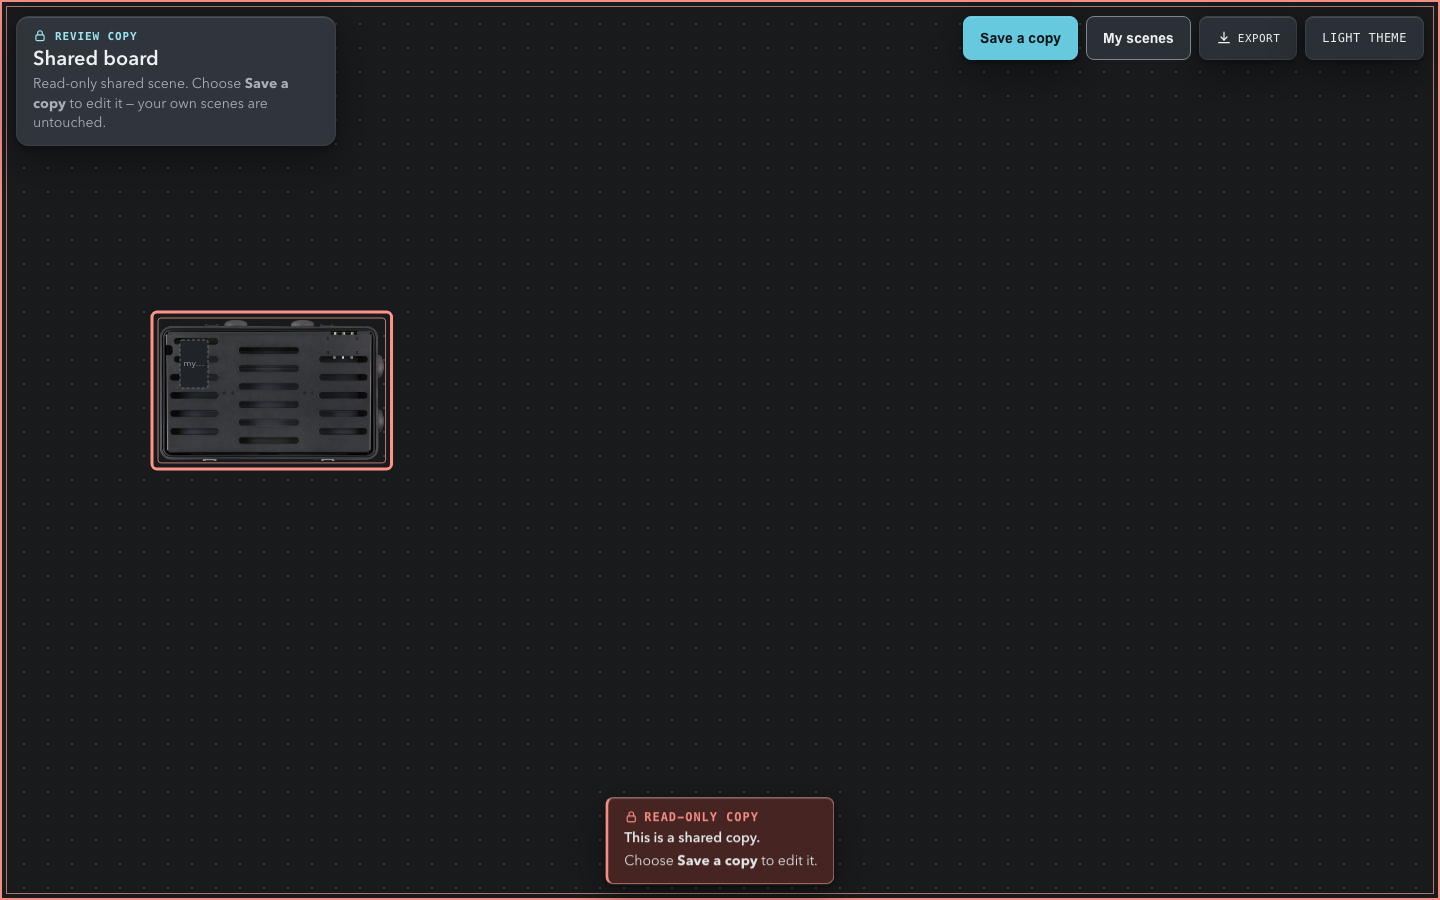
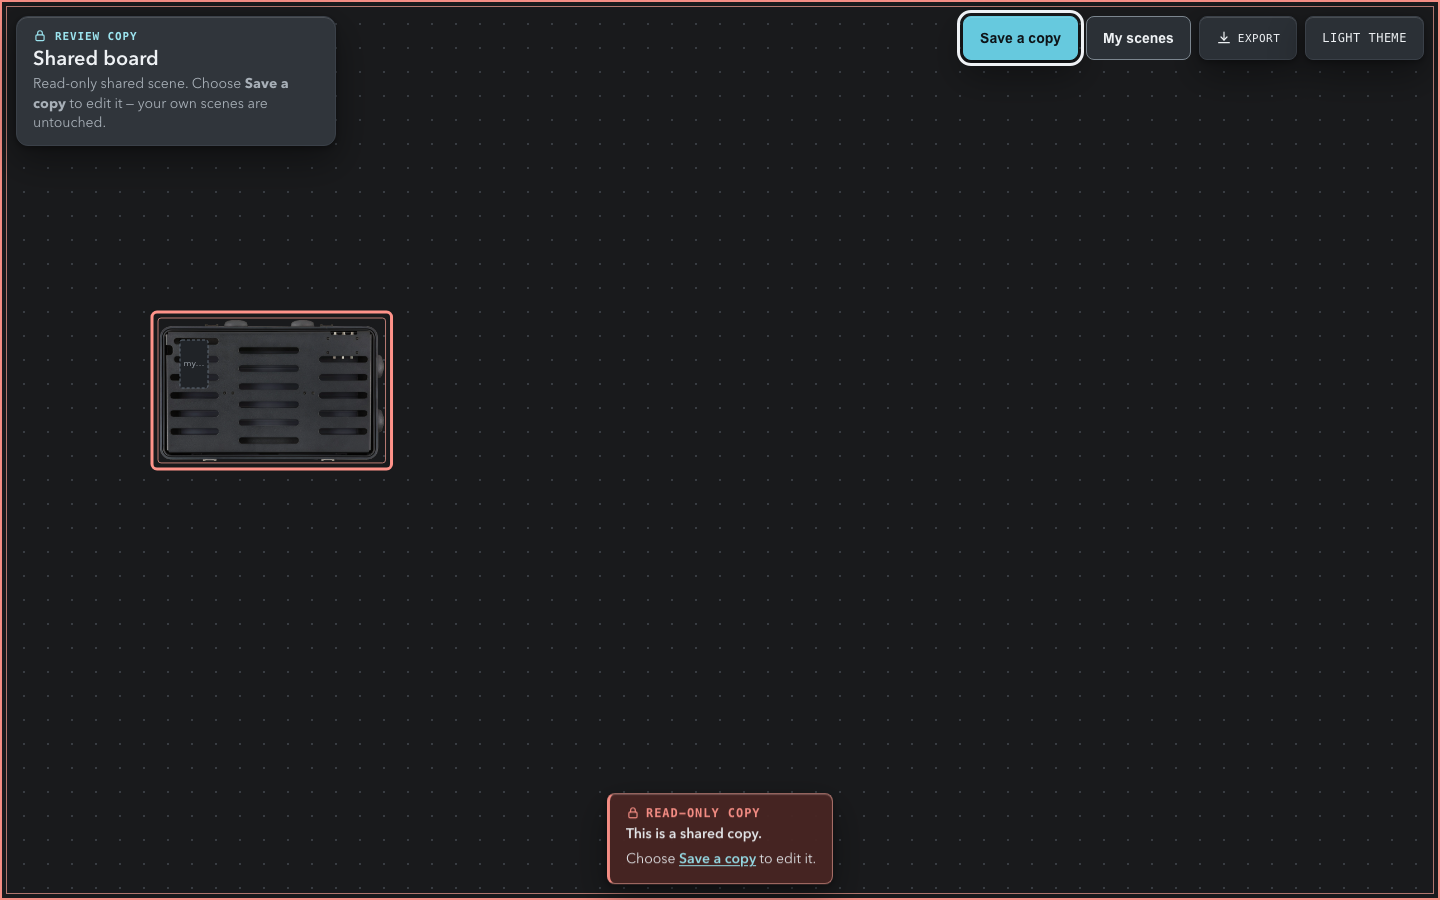
feat(p3-03): highlight Save a copy + make the cue text actionable

Changed region(s): [[0.4062, 0.8711, 0.5938, 0.9644], [0.6562, 0.0, 0.75, 0.0311], [0.6875, 0.0622, 0.75, 0.0933]]

diff --git a/src/components/ShareView.tsx b/src/components/ShareView.tsx
@@ -78,6 +78,8 @@ export function ShareStamp() {
 export function ShareEditCue() {
 	const cue = useReadOnly((state) => state.cue);
 	const clearCue = useReadOnly((state) => state.clearCue);
+	const [saving, setSaving] = useState(false);
+	const [saveError, setSaveError] = useState<string | null>(null);
 	// On mobile, sit above the info sheet when a selection opened it, so the
 	// cue never sandwiches between the sheet and the bottom action bar.
 	const sheetHeight = usePanelMetrics((state) => state.sheetHeight);
@@ -85,11 +87,21 @@ export function ShareEditCue() {
 		"--share-cue-bottom": `calc(56px + env(safe-area-inset-bottom) + ${sheetHeight}px + var(--space-2))`,
 	} as CSSProperties;
 	useEffect(() => {
-		if (!cue) return;
+		// Keep the cue up while saving or showing an error; the next pointerdown
+		// still clears it.
+		if (!cue || saving || saveError) return;
 		const timer = setTimeout(clearCue, 5_000);
 		return () => clearTimeout(timer);
-	}, [cue, clearCue]);
+	}, [cue, saving, saveError, clearCue]);
 	if (!cue) return null;
+	const save = async () => {
+		if (saving) return;
+		setSaving(true);
+		setSaveError(null);
+		const result = await saveSharedCopy();
+		setSaving(false);
+		if (!result.ok) setSaveError(result.message);
+	};
 	return (
 		<>
 			<span
@@ -98,6 +110,7 @@ export function ShareEditCue() {
 				aria-hidden="true"
 			/>
 			<div
+				id="share-edit-cue"
 				className="share-edit-cue"
 				data-testid="share-edit-cue"
 				data-kind={cue.kind}
@@ -112,8 +125,24 @@ export function ShareEditCue() {
 				</span>
 				<p className="share-edit-cue__lead">This is a shared copy.</p>
 				<p className="share-edit-cue__text">
-					Choose <strong>Save a copy</strong> to edit it.
+					Choose{" "}
+					<button
+						type="button"
+						className="share-edit-cue__save"
+						data-testid="share-cue-save"
+						aria-describedby="share-edit-cue"
+						disabled={saving}
+						onClick={() => void save()}
+					>
+						{saving ? "Saving…" : "Save a copy"}
+					</button>{" "}
+					to edit it.
 				</p>
+				{saveError ? (
+					<p className="share-edit-cue__error" role="alert">
+						{saveError}
+					</p>
+				) : null}
 			</div>
 		</>
 	);
@@ -126,6 +155,7 @@ export function ShareEditCue() {
 export function ShareActions() {
 	const [saving, setSaving] = useState(false);
 	const [error, setError] = useState<string | null>(null);
+	const cue = useReadOnly((state) => state.cue);
 
 	const save = async () => {
 		if (saving) return;
@@ -145,8 +175,10 @@ export function ShareActions() {
 		<div className="share-actions">
 			<button
 				type="button"
-				className="share-actions__save"
+				className={`share-actions__save${cue ? " share-actions__save--cue" : ""}`}
 				data-testid="share-save-copy"
+				data-cue-highlight={cue ? "true" : undefined}
+				aria-describedby={cue ? "share-edit-cue" : undefined}
 				aria-busy={saving}
 				disabled={saving}
 				onClick={() => void save()}

diff --git a/e2e/share.spec.ts b/e2e/share.spec.ts
@@ -443,6 +443,10 @@ test("read-only drag attempts explain why editing is disabled", async ({
 	await expect(page.getByTestId("share-edit-cue")).toBeVisible();
 	await expect(page.getByTestId("share-edit-cue")).toContainText("Save a copy");
 	await expect(stage).toHaveAttribute("data-readonly-cue", "item:i-1");
+	await expect(page.getByTestId("share-save-copy")).toHaveAttribute(
+		"data-cue-highlight",
+		"true",
+	);
 
 	// The board gives the same explanation.
 	const boardPoint = await boardCenter(page);
@@ -451,6 +455,10 @@ test("read-only drag attempts explain why editing is disabled", async ({
 	await page.mouse.move(boardPoint.x + 40, boardPoint.y + 24, { steps: 6 });
 	await page.mouse.up();
 	await expect(stage).toHaveAttribute("data-readonly-cue", "board:b-1");
+	await expect(page.getByTestId("share-save-copy")).toHaveAttribute(
+		"data-cue-highlight",
+		"true",
+	);
 
 	// The cue never blocks navigation: an empty-canvas drag still pans.
 	const beforeX = await stage.getAttribute("data-x");
@@ -465,9 +473,22 @@ test("read-only drag attempts explain why editing is disabled", async ({
 	await expect
 		.poll(async () => await stage.getAttribute("data-x"))
 		.not.toBe(beforeX);
+	await expect(page.getByTestId("share-save-copy")).not.toHaveAttribute(
+		"data-cue-highlight",
+		"true",
+	);
 
-	// The inline cue is non-blocking: Save a copy still works while it is up.
-	await page.getByTestId("share-save-copy").click();
+	// The cue text itself is the shortcut: clicking "Save a copy" saves the copy.
+	const again = await firstItemScreenCentre(page, {
+		widthCm: 7,
+		heightCm: 12,
+	});
+	await page.mouse.move(again.x, again.y);
+	await page.mouse.down();
+	await page.mouse.move(again.x + 36, again.y + 24, { steps: 6 });
+	await page.mouse.up();
+	await expect(page.getByTestId("share-edit-cue")).toBeVisible();
+	await page.getByTestId("share-cue-save").click();
 	await expect(page.getByTestId("share-saved")).toBeVisible();
 });
 

diff --git a/src/index.css b/src/index.css
@@ -4310,3 +4310,48 @@ body {
 		transform: translateY(0);
 	}
 }
+
+/* The real Save a copy action gets a high-contrast ring while the held cue is
+ * visible, so the instruction and the control read as one event. */
+.share-actions__save--cue {
+	outline: 3px solid var(--color-ink);
+	outline-offset: 3px;
+}
+
+/* Inline shortcut inside the held slip: the phrase is the action. The parent
+ * card is pointer-events:none, so the button opts back in. */
+.share-edit-cue__save {
+	padding: 2px 0;
+	font: inherit;
+	font-weight: var(--font-weight-semibold);
+	color: var(--color-accent-ink);
+	text-decoration: underline;
+	text-underline-offset: 2px;
+	background: transparent;
+	border: 0;
+	cursor: pointer;
+	pointer-events: auto;
+}
+
+.share-edit-cue__save:hover:not(:disabled) {
+	color: var(--color-ink);
+}
+
+.share-edit-cue__save:focus-visible {
+	outline: 2px solid var(--color-ink);
+	outline-offset: 2px;
+	border-radius: 2px;
+}
+
+.share-edit-cue__save:disabled {
+	cursor: default;
+	opacity: 0.7;
+}
+
+.share-edit-cue__error {
+	margin: 0;
+	font-size: var(--font-size-sm);
+	font-weight: var(--font-weight-medium);
+	line-height: 1.4;
+	color: var(--color-danger);
+}

diff --git a/src/canvas/useReadOnlyEditCue.ts b/src/canvas/useReadOnlyEditCue.ts
@@ -24,9 +24,14 @@ export function useReadOnlyEditCue(): void {
 			}
 		};
 		const onEnd = () => useReadOnly.getState().cancelAttempt();
-		const onDown = () => {
+		const onDown = (event: PointerEvent) => {
 			// A new press means the user moved on: don't leave a stale red ring
-			// on an object after a pan/selection elsewhere.
+			// on an object after a pan/selection elsewhere. Presses inside the cue
+			// itself (the inline Save a copy action) must not dismiss it first.
+			const target = event.target;
+			if (target instanceof Element && target.closest(".share-edit-cue")) {
+				return;
+			}
 			if (useReadOnly.getState().cue) useReadOnly.getState().clearCue();
 		};
 		window.addEventListener("pointermove", onMove);

diff --git a/docs/progress.md b/docs/progress.md
@@ -33,7 +33,7 @@
 - [x] R5 closes: detached offscreen export Stage, endpoint margin, SVG font determinism + pinned sharp, fit-capped "all content", pan-interrupt drop-in-place
 
 ## In progress
-- **P3-03 — Share links — in review, PR #26 (do not merge).** Created `docs/tasks/P3-03-share-links.md`. Owner-approved **"Transmittal"** direction (toolbar Share beside Export; non-modal Share panel; read-only **REVIEW COPY** stamp; `Save a copy` + `My scenes`; capacity warning only at hard/over; inline invalid-link card; zero new color tokens). **Codec:** `src/lib/shareLink.ts` (`#s=v1:` + deflate → base64url; zod validation; inline custom pedals; unknown refs preserved + labeled fallback; typed errors; 200 KB decoded and 32,000-char URL caps; streamed inflation aborts at the 200 KB cutoff). **Read-only:** `src/state/readOnly.ts` + guards on every mutator; editing chrome/drag/shortcuts removed, pan/zoom/selection/info/export/theme kept. **Library:** `enterPreview` flushes + suspends autosave and captures the recipient snapshot; `savePreviewAsCopy` writes a **new** document (MAX_SCENES inline reason) and resumes autosave; `exitPreview` restores the snapshot before re-arming writes. **Share orchestration:** `src/state/share.ts` + `main.tsx` (decode after boot; hash cleared on save/exit/dismiss; sender URL never mutated). **Dependency:** `fflate@0.8.3` only (pre-authorized in P0-01/progress Deps note; named in design.md). **Performance review:** `performance-expert` verdict **watch**; applied the 32,000-char URL hard cap (soft 4,000) with tests. **Owner decision: keep the remaining items as a watch note, not code now** (see Follow-ups). **Tests:** 13 codec + 5 library + 4 read-only unit tests; `e2e/share.spec.ts` 9 tests × desktop + mobile (generate → read-only → identical geometry → edits blocked → save copy is editable → recipient scene intact after reload; clipboard denial fallback; over-cap share loads + saves an editable copy; unknown board/item refs labeled; multi-board/rotated/loose fidelity + read-only zoom; read-only drag cue (item + board, no nag on tap, pan + Save a copy still work); 10-scene cap inline reason; damaged link inline error). **Checks:** lint / typecheck / test **466** / build / e2e **182 passed + 7 skipped**. **Design:** designer "Transmittal" owner-approved before UI → design-reviewer (10 renders, desktop+mobile, dark+light) **approve** (1 nit folded); follow-up read-only edit cue → R1 approve-with-changes (mobile stack/amber coexistence) → R2 **approve** (16 renders). **Read-only cue (owner-directed, strengthened by designer "Held for Review"):** a drag attempt (or blocked Delete/Cmd-D) draws a two-tone double rule on the attempted object + a full-canvas danger proof frame + an inline danger-surface slip ("READ-ONLY COPY — This is a shared copy. Choose Save a copy to edit it."). A tap alone does not nag; 5s auto-dismiss, reduced-motion instant, pointer-events none; mobile card above the info sheet and frame above the bar. Latest design-reviewer pass **approve** (14 renders). **Code review (light, HIGH-RISK ≤2):** pass 1 changes-required (streamed inflate CPU, `exitPreview` ordering/stale document, canvas fallback label, PR handoff docs) → fixed with regression tests → pass 2 (same session) **approve** (1 stale comment nit fixed). **Next: owner review/merge; do not start P3-04/P3-05.**
+- **P3-03 — Share links — in review, PR #26 (do not merge).** Created `docs/tasks/P3-03-share-links.md`. Owner-approved **"Transmittal"** direction (toolbar Share beside Export; non-modal Share panel; read-only **REVIEW COPY** stamp; `Save a copy` + `My scenes`; capacity warning only at hard/over; inline invalid-link card; zero new color tokens). **Codec:** `src/lib/shareLink.ts` (`#s=v1:` + deflate → base64url; zod validation; inline custom pedals; unknown refs preserved + labeled fallback; typed errors; 200 KB decoded and 32,000-char URL caps; streamed inflation aborts at the 200 KB cutoff). **Read-only:** `src/state/readOnly.ts` + guards on every mutator; editing chrome/drag/shortcuts removed, pan/zoom/selection/info/export/theme kept. **Library:** `enterPreview` flushes + suspends autosave and captures the recipient snapshot; `savePreviewAsCopy` writes a **new** document (MAX_SCENES inline reason) and resumes autosave; `exitPreview` restores the snapshot before re-arming writes. **Share orchestration:** `src/state/share.ts` + `main.tsx` (decode after boot; hash cleared on save/exit/dismiss; sender URL never mutated). **Dependency:** `fflate@0.8.3` only (pre-authorized in P0-01/progress Deps note; named in design.md). **Performance review:** `performance-expert` verdict **watch**; applied the 32,000-char URL hard cap (soft 4,000) with tests. **Owner decision: keep the remaining items as a watch note, not code now** (see Follow-ups). **Tests:** 13 codec + 5 library + 4 read-only unit tests; `e2e/share.spec.ts` 9 tests × desktop + mobile (generate → read-only → identical geometry → edits blocked → save copy is editable → recipient scene intact after reload; clipboard denial fallback; over-cap share loads + saves an editable copy; unknown board/item refs labeled; multi-board/rotated/loose fidelity + read-only zoom; read-only drag cue (item + board, no nag on tap, pan + Save a copy still work); 10-scene cap inline reason; damaged link inline error). **Checks:** lint / typecheck / test **466** / build / e2e **182 passed + 7 skipped**. **Design:** designer "Transmittal" owner-approved before UI → design-reviewer (10 renders, desktop+mobile, dark+light) **approve** (1 nit folded); follow-up read-only edit cue → R1 approve-with-changes (mobile stack/amber coexistence) → R2 **approve** (16 renders). **Read-only cue (owner-directed, strengthened by designer "Held for Review"):** a drag attempt (or blocked Delete/Cmd-D) draws a two-tone double rule on the attempted object + a full-canvas danger proof frame + an inline danger-surface slip ("READ-ONLY COPY — This is a shared copy. Choose Save a copy to edit it."). A tap alone does not nag; 5s auto-dismiss, reduced-motion instant, pointer-events none; mobile card above the info sheet and frame above the bar. The real **Save a copy** gets an ink ring while the cue is up, and the inline **“Save a copy”** phrase is clickable. Latest design-reviewer pass **approve** (14 renders + 6 CTA/link renders). **Code review (light, HIGH-RISK ≤2):** pass 1 changes-required (streamed inflate CPU, `exitPreview` ordering/stale document, canvas fallback label, PR handoff docs) → fixed with regression tests → pass 2 (same session) **approve** (1 stale comment nit fixed). **Next: owner review/merge; do not start P3-04/P3-05.**
 
 ## Follow-ups
 - **Observability / analytics is NOT in v1 (2026-10-20, owner question).** There is no PostHog or other product telemetry in the app; the only PostHog reference in the repo is the global opencode MCP note (disabled), unrelated to Pedalvision. The performance watch note therefore relies on owner/user reports + `pnpm bench:capacity` + manual mobile QA. If launch observability is wanted, it is **P5-07 PROPOSED** (roadmap): evaluate privacy-first RUM (Cloudflare Web Analytics), error tracking (Sentry free tier), a tiny Worker + `web-vitals` endpoint, or PostHog (product analytics/session replay; heavier script + privacy/free-tier trade-offs). Not scheduled, not a launch gate; needs an ADR/dependency note + privacy review.

diff --git a/docs/tasks/P3-03-share-links.md b/docs/tasks/P3-03-share-links.md
@@ -87,14 +87,14 @@ A user can turn the active scene into a self-contained URL (`#s=v1:…`) that a 
 
 ## Implementation (2026-10-20)
 
-- **Design gate:** the `designer` proposed **"Transmittal"** (owner-approved before any UI, 2026-10-20): toolbar Share beside Export; a non-modal Share panel with a selectable link, size meta, Copy CTA and inline copied/denied/too-large/empty states; a read-only **REVIEW COPY** stamp (desktop top-left / mobile below the toolbar), `Save a copy` + `My scenes`, capacity warning only at hard/over, and an inline invalid-link card. Selection + info panel + Export + theme remain available read-only; picker/Add/scene register/first-run/action bars/drag/transformers/shortcuts are removed. `design-reviewer` reviewed the 10 rendered screenshots (desktop+mobile, dark+light, over-cap, error) and **approved** (1 nit: 11px meta readability — folded by bumping the panel meta to 12px/`ink-eyebrow`). A follow-up cue review (16 renders incl. amber space-warning + red cue together) R1 **approve-with-changes** (mobile bottom stack, amber coexistence) → R2 **approve**. The owner then asked for a stronger cue; designer **"Held for Review"** (double rule + canvas frame + danger slip) → design-reviewer **approve** (14 renders).
+- **Design gate:** the `designer` proposed **"Transmittal"** (owner-approved before any UI, 2026-10-20): toolbar Share beside Export; a non-modal Share panel with a selectable link, size meta, Copy CTA and inline copied/denied/too-large/empty states; a read-only **REVIEW COPY** stamp (desktop top-left / mobile below the toolbar), `Save a copy` + `My scenes`, capacity warning only at hard/over, and an inline invalid-link card. Selection + info panel + Export + theme remain available read-only; picker/Add/scene register/first-run/action bars/drag/transformers/shortcuts are removed. `design-reviewer` reviewed the 10 rendered screenshots (desktop+mobile, dark+light, over-cap, error) and **approved** (1 nit: 11px meta readability — folded by bumping the panel meta to 12px/`ink-eyebrow`). A follow-up cue review (16 renders incl. amber space-warning + red cue together) R1 **approve-with-changes** (mobile bottom stack, amber coexistence) → R2 **approve**. The owner then asked for a stronger cue; designer **"Held for Review"** (double rule + canvas frame + danger slip) → design-reviewer **approve** (14 renders). A final owner follow-up added the CTA ink ring + clickable inline “Save a copy” → design-reviewer **approve** (6 renders).
 - **Dependency:** `fflate@0.8.3` (pre-authorized in P0-01 + `progress.md` → Deps note; named in design.md). Zero transitive deps; used sync for deterministic codec tests.
 - **Codec:** `src/lib/shareLink.ts` — `#s=v1:` + `deflate → base64url`; zod schema for boards/items/custom pedals; unknown refs preserved; duplicate uids de-duped; `normalizeSceneContent` (orphan items/dense z/prune custom defs); 200 KB decoded cap, **32,000-char URL hard cap** (soft 4,000; compressed/base64 limits derived), streamed inflation with a 200 KB output cutoff that aborts early; typed `invalid`/`unsupported-version`/`corrupt`/`too-large` errors; encode refuses over-ceiling scenes. A max-cap fixture (400 items / 10 boards / 100 custom parts) encodes well under 200 KB.
 - **Read-only:** `src/state/readOnly.ts` + guards on every scene mutator; drag/transformers/shortcuts/action bars/picker/scene register/first-run removed from the chrome; pan/zoom/selection/info/export/theme kept.
 - **Library:** `enterPreview` flushes + suspends autosave and captures the recipient snapshot; `savePreviewAsCopy` writes a **new** document (respects `MAX_SCENES`, inline refusal) and resumes autosave; `exitPreview` restores the recipient document. Original document verified untouched by unit + e2e.
 - **Share orchestration:** `src/state/share.ts` + `main.tsx` decode after persistence boot; share state/error; link builder; hash cleared on save/exit/dismiss. Sender's address bar is never mutated.
 - **UI:** `SharePanel.tsx` (sender) + `ShareView.tsx` (stamp, actions, saved notice, error card, edit cue); `LinkIcon`/`CopyIcon`/`LockIcon`; tokens-only CSS; desktop dock / mobile tray + fixed bottom action bar.
-- **Read-only edit cue (owner-directed, 2026-10-20 → designer "Held for Review"):** the stamp says "Choose Save a copy to edit it"; a drag attempt past the 4 px threshold (or a blocked Delete/Cmd-D) draws a **two-tone double rule on the attempted object** (canvas under-stroke + 3px danger outer + 1px danger-border inner), lights a **full-canvas danger proof frame** (inner hairline; mobile bottom sits above the action bar), and shows an inline danger-surface "held slip" card (Lock icon + READ-ONLY COPY + "This is a shared copy. Choose Save a copy to edit it."). 5s auto-dismiss, 140ms fade/slide with a reduced-motion instant fallback, `pointer-events:none`; a new pointerdown clears stale cues. A tap/selection alone does not nag. Mobile card sits above the measured info-sheet height.
+- **Read-only edit cue (owner-directed, 2026-10-20 → designer "Held for Review"):** the stamp says "Choose Save a copy to edit it"; a drag attempt past the 4 px threshold (or a blocked Delete/Cmd-D) draws a **two-tone double rule on the attempted object** (canvas under-stroke + 3px danger outer + 1px danger-border inner), lights a **full-canvas danger proof frame** (inner hairline; mobile bottom sits above the action bar), and shows an inline danger-surface "held slip" card (Lock icon + READ-ONLY COPY + "This is a shared copy. Choose Save a copy to edit it."). 5s auto-dismiss, 140ms fade/slide with a reduced-motion instant fallback, `pointer-events:none`; a new pointerdown clears stale cues. While the cue is up, the **real Save a copy button gets a high-contrast ink ring** (white in dark, near-black in light) and the **inline “Save a copy” phrase is clickable** (calls the same save action). A tap/selection alone does not nag. Mobile card sits above the measured info-sheet height.
 - **Tests:** 10 codec unit tests + 4 library preview/save/exit/cap tests + 2 read-only guard tests; `e2e/share.spec.ts` (5 tests × desktop + mobile): generate → open read-only → identical geometry, edit attempts blocked, save a copy, recipient scene intact + reload; over-cap share loads with the capacity warning; unknown ref preserves geometry + labeled fallback; 10-scene cap inline reason; damaged link inline error + dismiss.
 - **Checks:** lint / typecheck / test **466** / build / e2e **182 passed + 7 skipped**.
 

diff --git a/docs/roadmap.md b/docs/roadmap.md
@@ -45,7 +45,7 @@ Task files live in `docs/tasks/`. Only P0–P1 have detailed files; later phases
 ## P3 — Output (in progress)
 - P3-01 Export **PNG + PDF** (detached offscreen Stage, scope: selected-board | all-content (everything), Standard/HD quality (32/64 px/cm), pixelRatio ≤2 + 16.7 MP/8192 px clamp, true-scale paper-light PDF, verify on iOS Safari) (S1/S2) — **done** (merged 2026-10-19, PR #23, squash `d2a33bb`; owner-approved "Print Ticket"; `src/lib/exportScene.ts` + `canvas/exportStage.ts` + `lib/pdf.ts`; 20+2 unit tests; desktop+mobile e2e; zero new deps). **A3 PNG export confirmed by the owner on iPhone 2026-10-20 (PDF not separately confirmed).**
 - P3-02 Scene save/load + multi-scene index (IndexedDB) + autosave + **boot-time index↔doc reconcile** (R6/S2) — **done** (merged 2026-10-20, PR #24, squash `b874821`; `idb@8.0.4`; 10-scene cap; `stage.toBlob()` export fix; capacity budgets documented; 418 unit / 152 e2e).
-- P3-03 Share links (versioned codec, **custom pedals travel inline**, deflate → base64url hash; read-only view + "save a copy"; note the ~200KB cap interplay) (S1/R6) — **in review — PR #26** (implemented 2026-10-20; do not merge). `src/lib/shareLink.ts` (`#s=v1:`, zod, inline custom pedals, 200 KB decoded + 32,000-char URL caps, streamed inflation abort), `src/state/share.ts` + `readOnly.ts`, library preview/save/exit (recipient document never overwritten), owner-approved **"Transmittal"** UI (toolbar Share, review stamp, Save a copy), `fflate@0.8.3`. Tests: 13 codec + 5 library + 4 read-only; `e2e/share.spec.ts` desktop+mobile. **Performance review:** `performance-expert` verdict **watch**; 32,000-char URL hard cap applied (soft 4,000). **Watch note (owner decision):** ship; revisit the deferred large-preview confirmation / bundle split / preview-before-reconcile only if the triggers in `docs/progress.md` fire (large shared previews, phone slowness, long-link truncation, fps/bundle regressions). **Next: owner review/merge; then P3-04.**
+- P3-03 Share links (versioned codec, **custom pedals travel inline**, deflate → base64url hash; read-only view + "save a copy"; note the ~200KB cap interplay) (S1/R6) — **in review — PR #26** (implemented 2026-10-20; do not merge). `src/lib/shareLink.ts` (`#s=v1:`, zod, inline custom pedals, 200 KB decoded + 32,000-char URL caps, streamed inflation abort), `src/state/share.ts` + `readOnly.ts`, library preview/save/exit (recipient document never overwritten), owner-approved **"Transmittal"** UI (toolbar Share, review stamp, Save a copy), `fflate@0.8.3`. Tests: 13 codec + 5 library + 4 read-only; `e2e/share.spec.ts` desktop+mobile. **Performance review:** `performance-expert` verdict **watch**; 32,000-char URL hard cap applied (soft 4,000). **Read-only cue:** "Held for Review" + CTA ink ring + clickable inline Save a copy. **Watch note (owner decision):** ship; revisit the deferred large-preview confirmation / bundle split / preview-before-reconcile only if the triggers in `docs/progress.md` fire (large shared previews, phone slowness, long-link truncation, fps/bundle regressions). **Next: owner review/merge; then P3-04.**
 - P3-04 Undo/redo (snapshot store) + keyboard shortcuts (S5/N6 — separate task, one concern)
 - P3-05 Storage-failure fallback (IndexedDB availability check + inline warning + JSON backup download) (N3 — separate task, one concern)
 - P3-06 Capacity budgets + repeatable benchmark (items/boards/cables/scenes/export; distinguish **distinct images** from item count) — **done** (merged 2026-10-20, PR #25, squash `e9e7817`). `src/lib/capacity.ts` (soft/hard constants, `sceneObjectCounts` over every array incl. cables/endpoints, distinct-image dedupe + custom exemption, inline refusals), store-enforced hard caps on add/duplicate/board, owner-approved **"Load Chart"** inline UI (scene register only when tight, picker strip, action-bar note, export images/size + soft warning, trigger dot), report-only `pnpm bench:capacity` (`e2e/benchmark.spec.ts` + `playwright.benchmark.config.ts`). 2026-10-20 benchmark: 89 distinct/10 boards → 35 ms boot, 304 ms export, 0.54 MB PNG; 400 items/7 images → 630 ms, 9.87 MB; 400 items/89 distinct → 630 ms, 5.39 MB; 50 scenes → 34 ms boot. See `docs/tasks/P3-06-capacity-budgets.md`. **P4 follow-up:** extend the benchmark with cables + endpoints before raising the shared graph cap.
